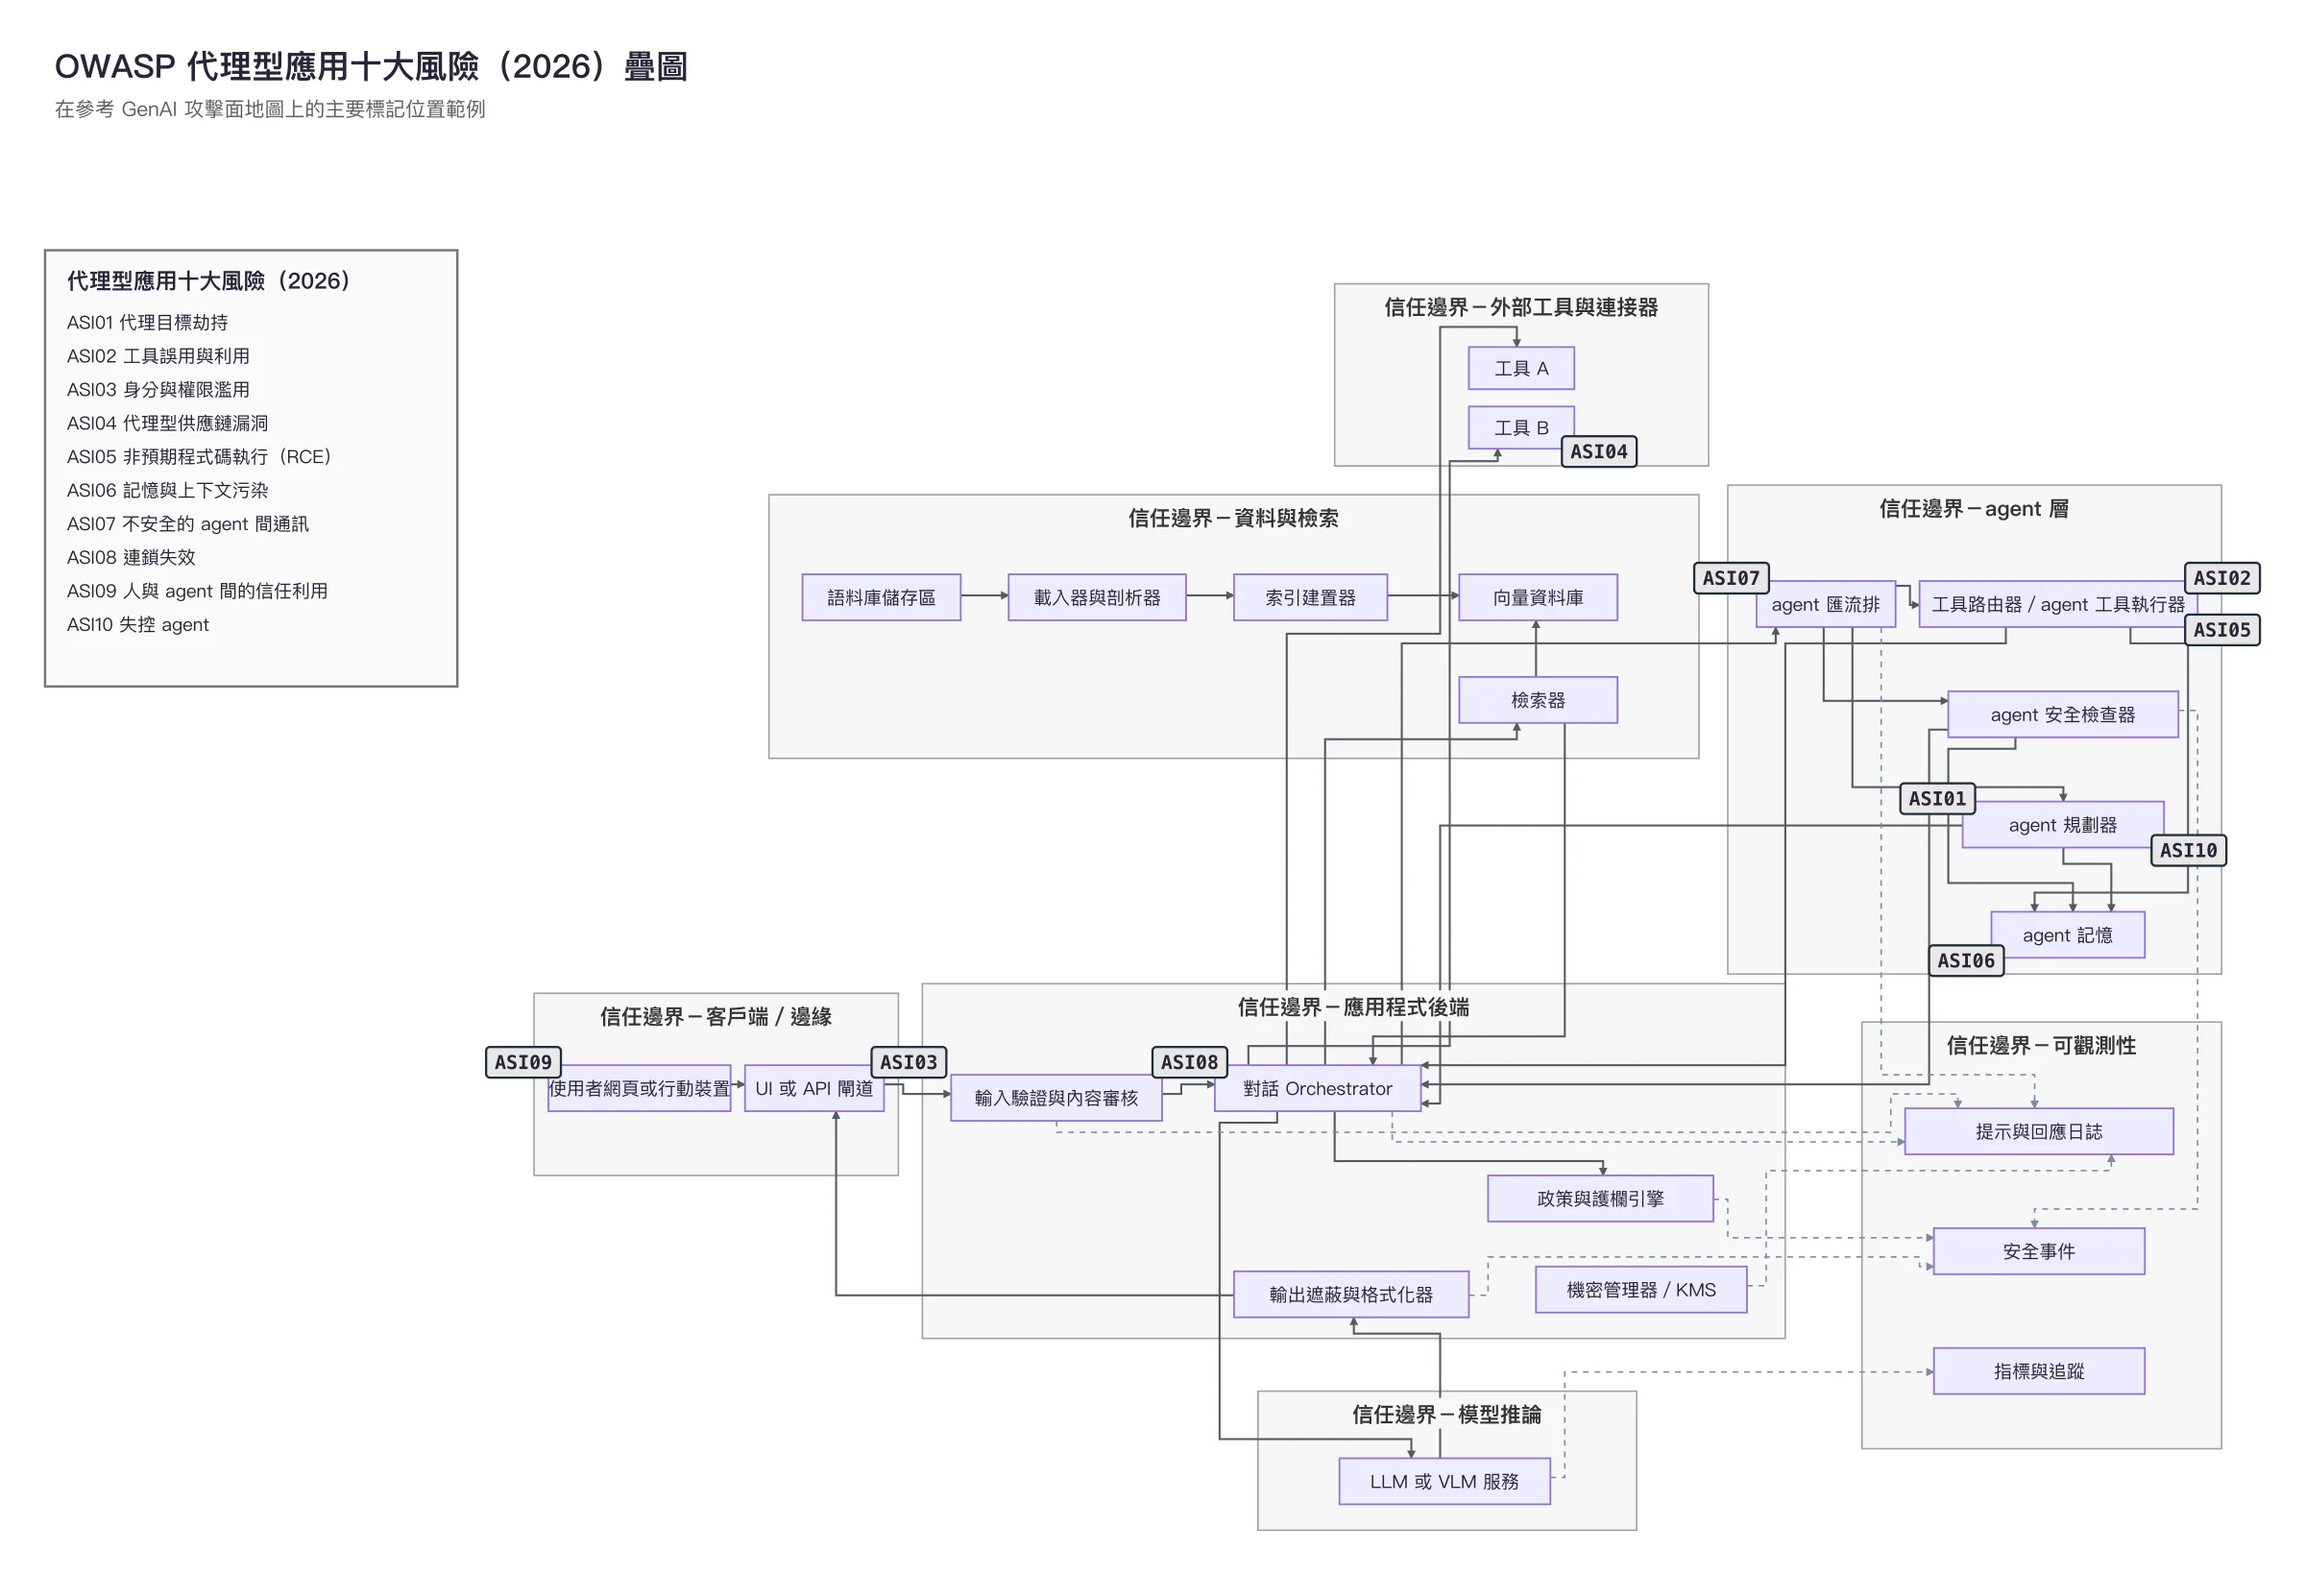
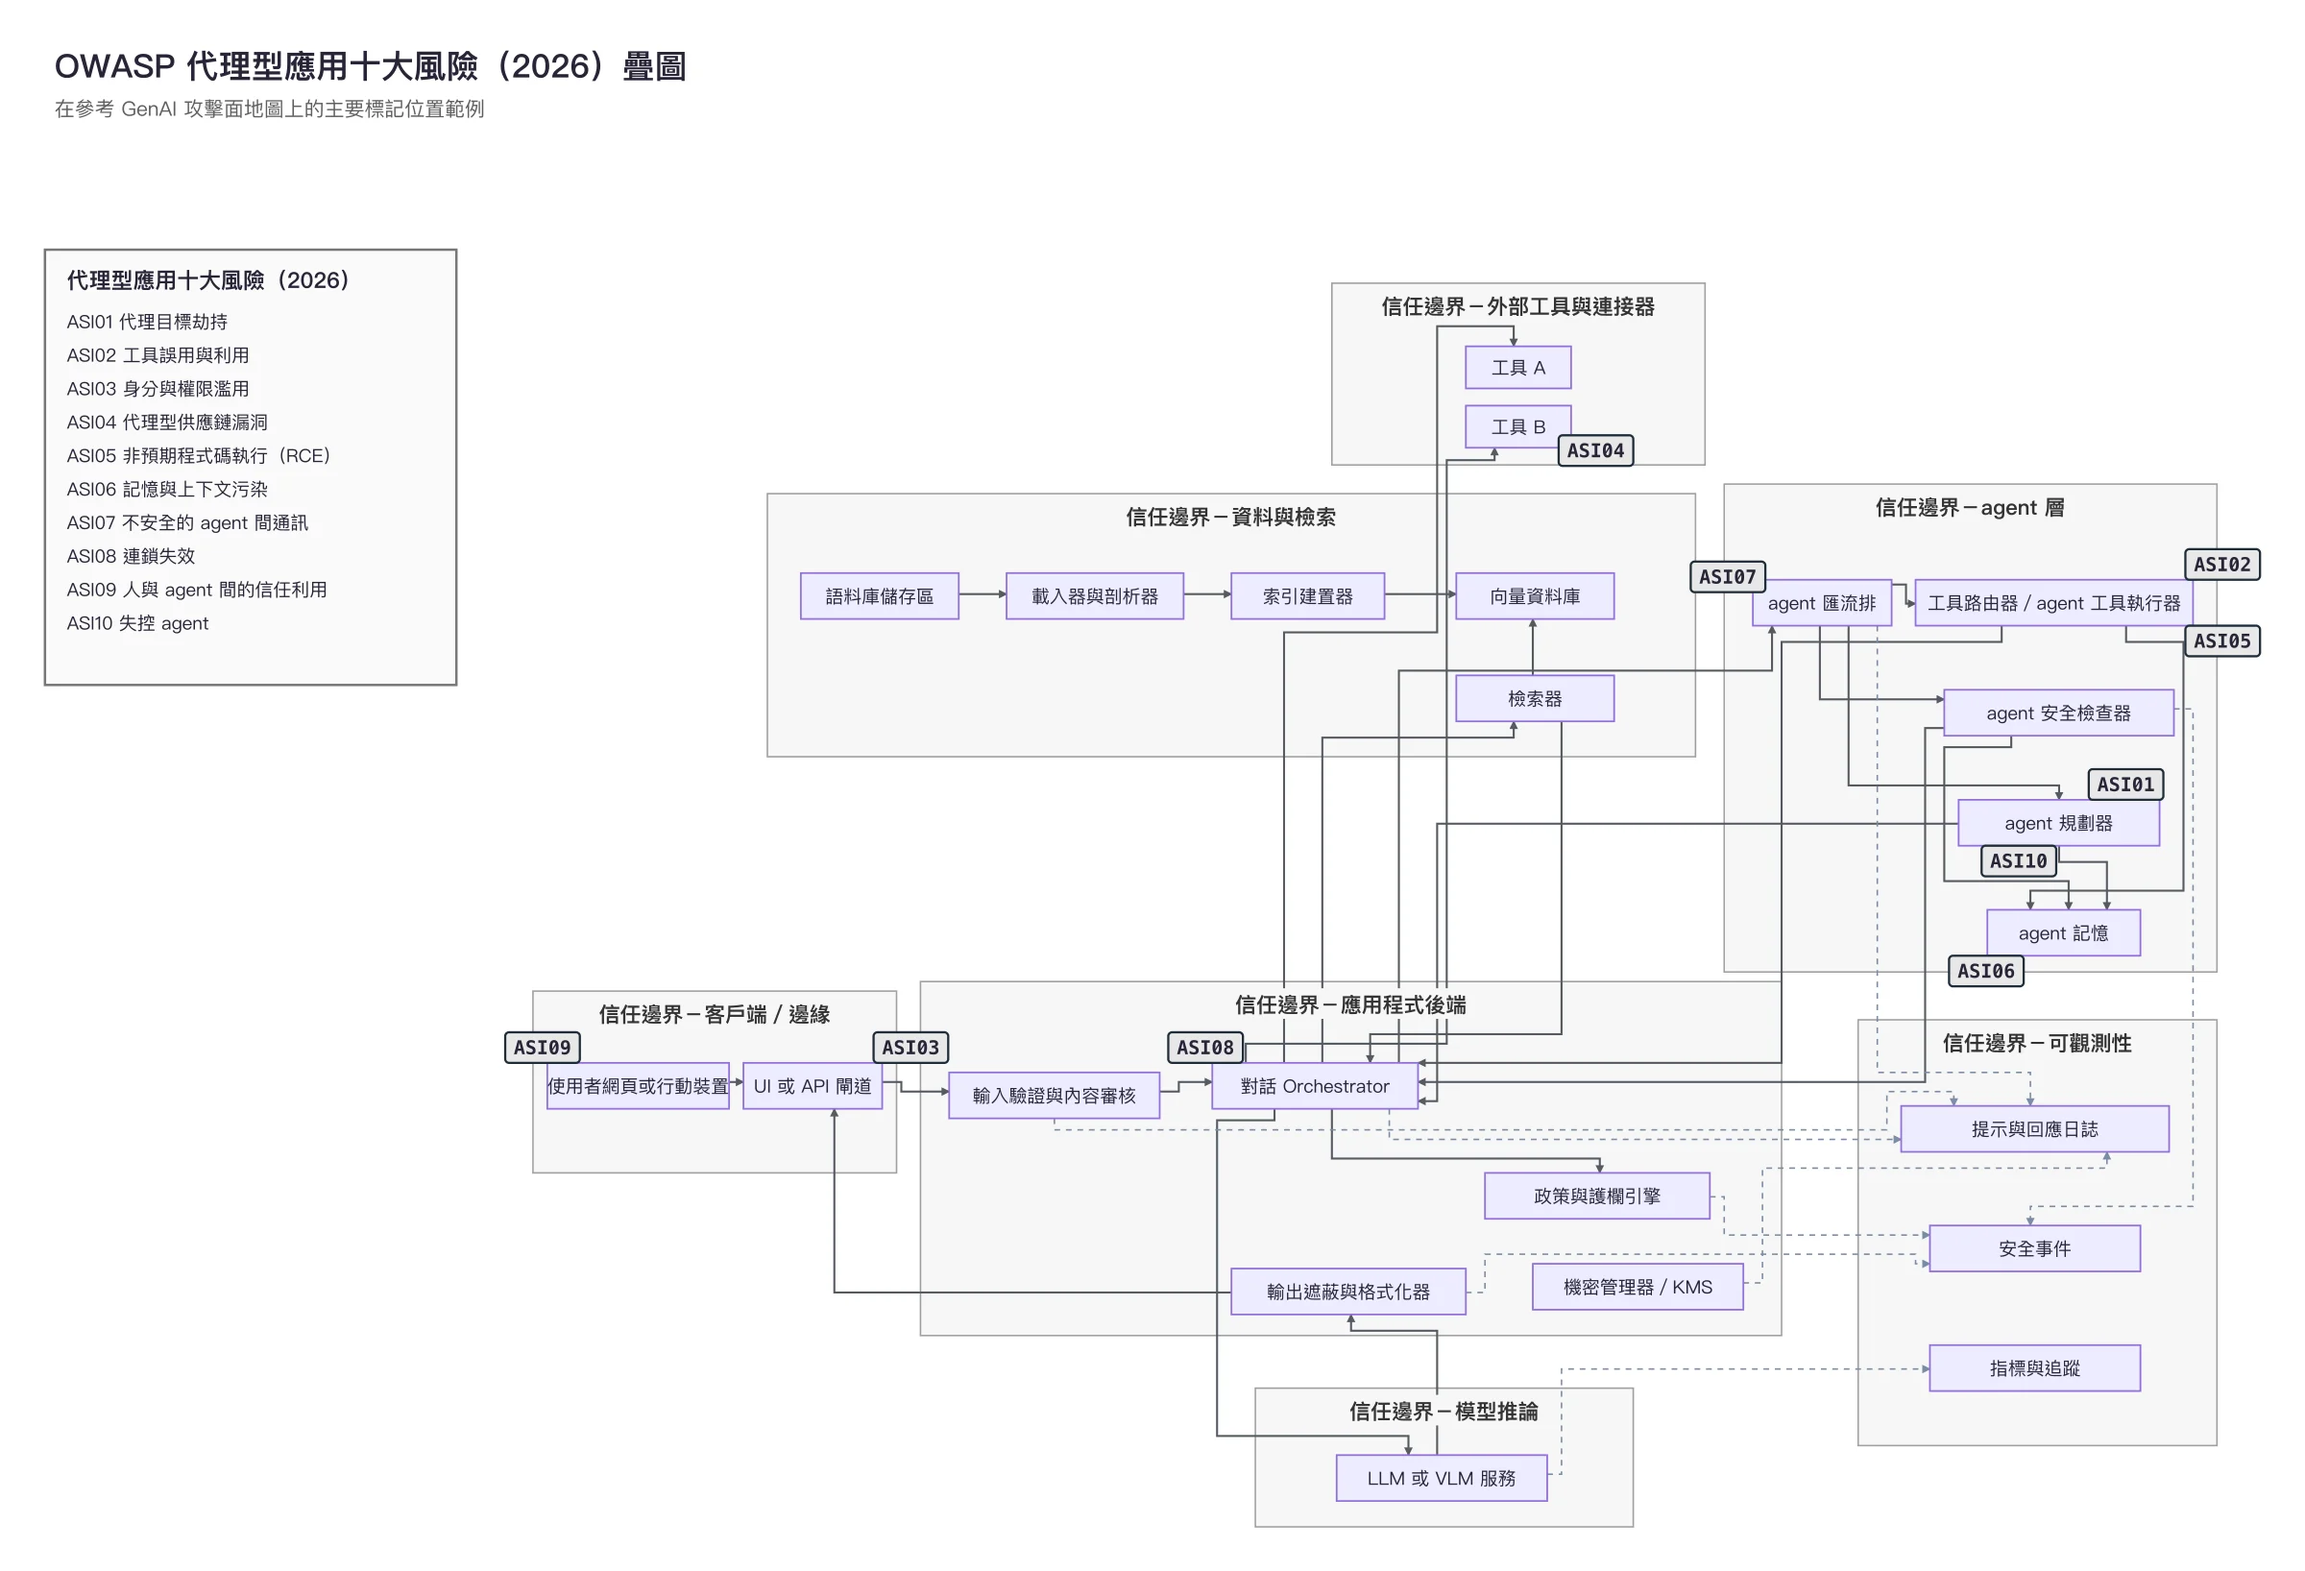
Fix badge placement on overlay figures
- LLM08 徽章不再遮住 Orchestrator 的箭頭頭，並新增徽章遮擋檢查

diff --git a/index.html b/index.html
@@ -173,7 +173,7 @@ dialog#zoom button{position:fixed;top:10px;right:10px;z-index:2;min-width:44px;m
 <h3>威脅建模照自己的風險排序，不照 OWASP 編號</h3>
 <p>有了地圖，威脅建模就是把它變成可測試的假設。手冊把 OWASP LLM 應用十大風險 2026 與代理型應用十大風險 2026 當作互補的兩個鏡頭：前者涵蓋模型與應用風險，後者著重模型成為行動者之後的自主性、工具、記憶、委派、代理間通訊與擴散（p.44）。它也訂了版本標記規則：每個標記都要附上版本（例如 <a class="term" href="glossary.html#t-excessive-agency-llm03-2026" title="agent 被賦予超出任務所需的工具、權限或自主性。">LLM03</a>:2026），或在所屬表格、段落中明示版本，不要把 2025 版的編號沿用下去（p.44）。</p>
 <figure class="fig"><div class="fig-scroll" tabindex="0" role="group" aria-label="圖片，窄螢幕可左右捲動"><a class="zoom" href="images/fig-llm-top10-overlay.webp" data-zoom aria-label="放大檢視：OWASP LLM Top 10（2026）各項風險在參考攻擊面地圖上的主要發生位置"><img src="images/fig-llm-top10-overlay.webp" alt="OWASP LLM Top 10（2026）各項風險在參考攻擊面地圖上的主要發生位置" width="2400" height="1668" loading="lazy" decoding="async"></a></div><figcaption>OWASP LLM Top 10（2026）各項風險在參考攻擊面地圖上的主要發生位置。圖為手冊 p.45 圖片之繁體中文翻譯</figcaption></figure>
-<figure class="fig"><div class="fig-scroll" tabindex="0" role="group" aria-label="圖片，窄螢幕可左右捲動"><a class="zoom" href="images/fig-agentic-top10-overlay.webp" data-zoom aria-label="放大檢視：OWASP Agentic Top 10（2026）各項風險在參考攻擊面地圖上的主要發生位置"><img src="images/fig-agentic-top10-overlay.webp" alt="OWASP Agentic Top 10（2026）各項風險在參考攻擊面地圖上的主要發生位置" width="2400" height="1640" loading="lazy" decoding="async"></a></div><figcaption>OWASP Agentic Top 10（2026）各項風險在參考攻擊面地圖上的主要發生位置。圖為手冊 p.46 圖片之繁體中文翻譯</figcaption></figure>
+<figure class="fig"><div class="fig-scroll" tabindex="0" role="group" aria-label="圖片，窄螢幕可左右捲動"><a class="zoom" href="images/fig-agentic-top10-overlay.webp" data-zoom aria-label="放大檢視：OWASP Agentic Top 10（2026）各項風險在參考攻擊面地圖上的主要發生位置"><img src="images/fig-agentic-top10-overlay.webp" alt="OWASP Agentic Top 10（2026）各項風險在參考攻擊面地圖上的主要發生位置" width="2400" height="1636" loading="lazy" decoding="async"></a></div><figcaption>OWASP Agentic Top 10（2026）各項風險在參考攻擊面地圖上的主要發生位置。圖為手冊 p.46 圖片之繁體中文翻譯</figcaption></figure>
 <p>這兩張疊圖（Figure 2C，p.45；Figure 2D，p.46）把各項風險標記貼在 Figure 2A 的元件上。手冊附了一條<a class="term" href="glossary.html#t-placement-rule" title="威脅標記放在它主要發生的元件，不代表只適用該處。">標記放置規則</a>：疊圖標示的是主要發生處，不代表只適用於該處；標記放在威脅實質生效的第一個斷點，只有在某處是重要的預防、偵測、圍堵或復原位置時才加第二個標記，避免把同一個標記貼滿所有可能被波及的元件（p.46）。讀圖時記住這條規則，就不會把它誤讀成「LLM01 只發生在應用後端」。</p>
 <p>排序要依本地風險，只看 OWASP 編號不夠，要考量業務與安全衝擊、可利用性、實際權限與代理權限、持久性、跨 <a class="term" href="glossary.html#t-session" title="一段連續互動；跨 session 存活是持久化的判準。">session</a> 或<a class="term" href="glossary.html#t-cross-tenant" title="資料或指令越過不同客戶之間的隔離邊界。">跨租戶</a>的觸及範圍、擴散與扇出、資源成本的不對稱、人的依賴程度、<a class="term" href="glossary.html#t-detectability" title="攻擊在遙測與 SOC 中被看見的程度，是嚴重度評分維度之一。">可偵測性</a>，以及回復與圍堵的難度（p.49）。產出物則是一份有版本的威脅登錄表、事先寫明的判定準則、<a class="term" href="glossary.html#t-regression-test" title="把確認的發現做成可重複執行的測試，防止修好的問題無聲復活。">迴歸測試</a>包與上線關卡。手冊對關卡的要求是整章最有力的一句：關卡應該擋下確定性控制的失效，例如授權繞過、未簽署的產出物、不安全的輸出去向、跨租戶檢索、沒有上限的工具扇出、缺少<a class="term" href="glossary.html#t-kill-switch" title="能立即終止 agent 或工具的控制，缺少它應擋在上線關卡。">緊急停止開關</a>；模型拒答率不能拿來當作安全的證明（p.49）。<a class="term" href="glossary.html#t-threat-model" title="列出資產、資料流、信任邊界與威脅的有版本控管的活文件。">威脅模型</a>本身也要當成和應用程式一起版本控管的活文件，只要模型、系統提示、RAG 語料、向量資料庫、工具或 MCP 伺服器、權限、記憶設計等任何一項變動就要更新（p.49）。</p>
 <h2 id="sec-4">每一種攻擊得手，都在指認一條沒守住的邊界</h2>
